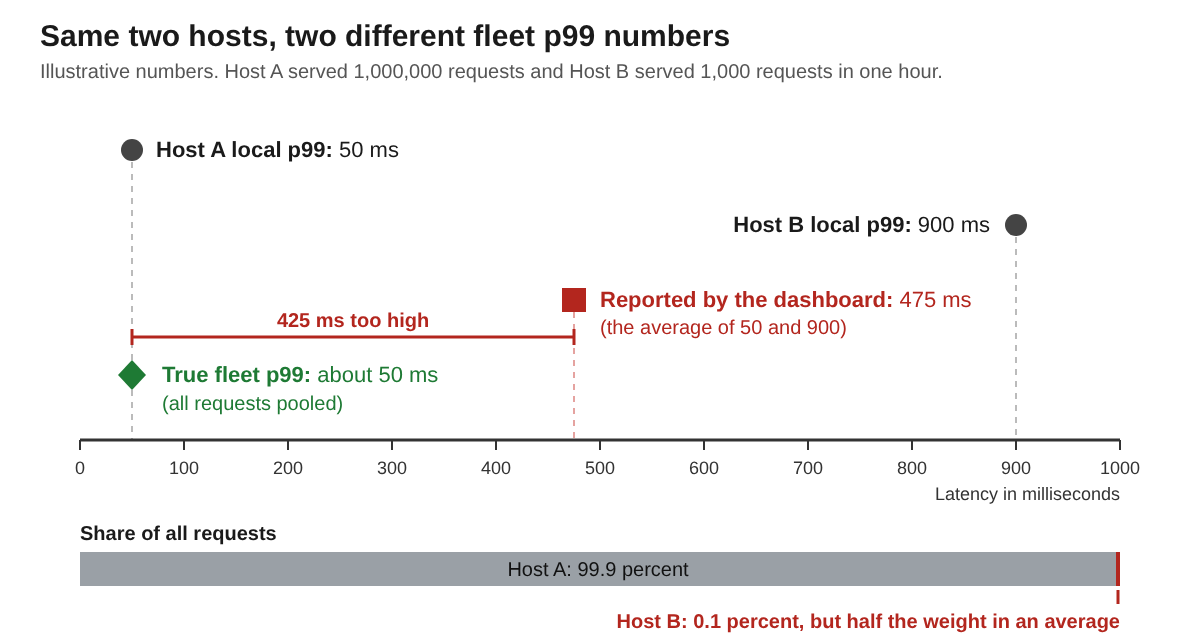
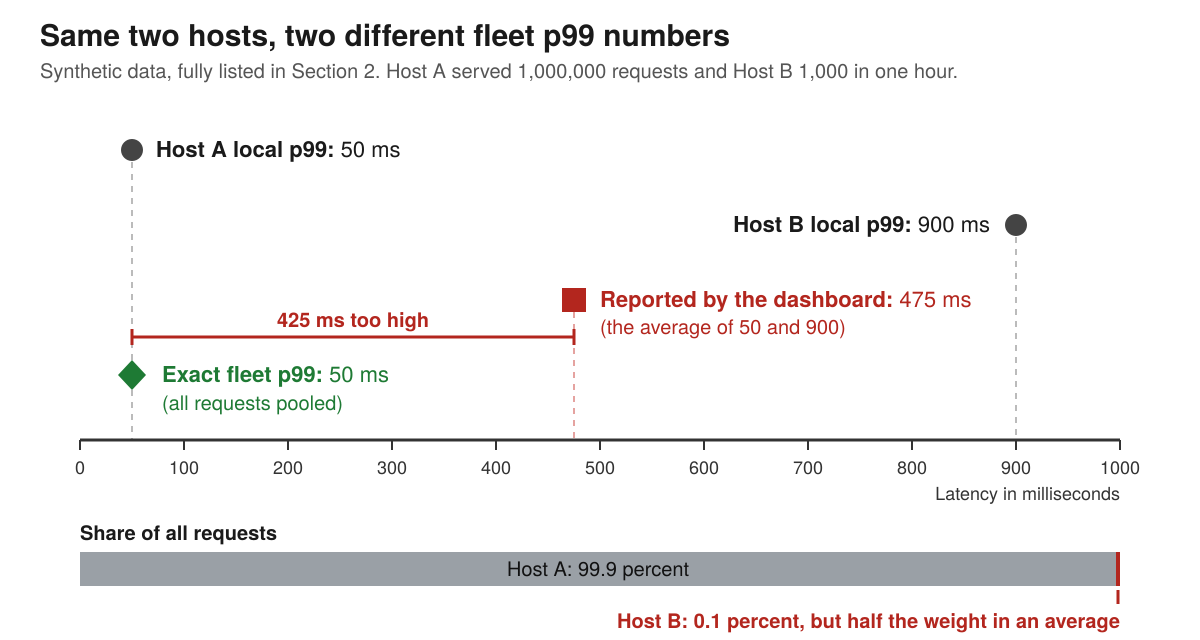
Apply Assignment 1 feedback: reproducible example, documented practice, page decision tolerance
List the full synthetic distribution behind the two host example so the
exact fleet p99 of 50 ms can be recomputed, cite the GOV.UK dashboard fix
and Datadog's statement as documented practice, and fix the page decision
tolerance before testing with threshold cases from 240 to 360 ms (Q5 in
DESIGN.md). Update both figures and the Final Topic papers to match.

diff --git a/DESIGN.md b/DESIGN.md
@@ -34,7 +34,9 @@ This version adds the Section 2 specification and a first Section 3 comparison, 
 | Service owner | To check the service against its promised latency target | Reports that do not match what users experienced |
 | Monitoring platform team | A correct fleet number without storing every request | Exact answers cost bandwidth, storage and query time that grow with traffic |
 
-**Concrete scenario:** In one hour, Host A serves 1,000,000 requests with a local p99 of 50 milliseconds (ms). Host B serves 1,000 requests with a local p99 of 900 ms, perhaps because it is overloaded. The dashboard averages the two local values and shows (50 + 900) / 2 = 475 ms. That crosses a 300 ms alert threshold, so the on call engineer is paged. But Host B served only about 0.1 percent of all requests. If every request is pooled, the true fleet p99 is about 50 ms, so almost no users were slow and the alert was false. The reverse also happens: when one busy host is slow and several small hosts are fast, the average comes out low and hides a slowdown that most users feel. These numbers, including the threshold, are invented to show the effect and are not measurements. Figure 2 below draws the gap.
+**Concrete scenario:** In one hour, Host A serves 1,000,000 requests: 985,000 take 20 milliseconds (ms) and 15,000 take 50 ms, so its local p99 is 50 ms. Host B is overloaded and serves 1,000 requests: 980 take 100 ms and 20 take 900 ms, so its local p99 is 900 ms. The dashboard averages the two local values and shows (50 + 900) / 2 = 475 ms. That crosses a 300 ms alert threshold, so the on call engineer is paged. Pooling all 1,001,000 requests and taking the nearest rank p99, position ⌈0.99 × 1,001,000⌉ = 990,990 in sorted order, gives an exact fleet p99 of 50 ms, because Host B served only about 0.1 percent of the requests. Almost no users were slow, and the page was false. The reverse also happens: when one busy host is slow and several small hosts are fast, the average comes out low and hides a slowdown that most users feel. These numbers and the 300 ms threshold are synthetic, not measurements, but every request is listed, so anyone can recompute the exact answer. Section 2 uses the same data as its ordinary example, and Figure 2 below draws the gap.
+
+**Is the averaging calculation used in practice?** Yes, by real teams, though no source I found reports how large its error was. The GOV.UK platform team at the UK Government Digital Service fixed a Grafana dashboard whose request duration panel averaged Prometheus summary quantiles across pods, noting that it took "the mean across pods of the median request durations", and moved the metric to histograms. Datadog's engineers write that many monitoring vendors compute percentiles per host and that combining those values across hosts gives misleading results. So the practice is documented, while the size of the error and the pages it causes stay a synthetic evaluation until the simulation measures them. Section 2 fixes in advance how much error the page decision can tolerate (Q5).
 
 In one sentence: for an on call engineer reading a fleet dashboard, uneven traffic across hosts makes an averaged fleet p99 wrong, which causes false alarms or missed slowdowns. My project will investigate whether merged quantile sketches, small summaries that hosts can send instead of raw measurements, give a fleet p99 close to the exact answer while using far less memory.
 
@@ -46,7 +48,7 @@ In one sentence: for an on call engineer reading a fleet dashboard, uneven traff
 4. **Display.** The dashboard shows the number and raises an alert if it crosses the target.
 5. **Decide.** The engineer investigates, pages a teammate or waits.
 
-![Flowchart of five steps from left to right: Record, Report, Combine, Display and Decide. Step 3, Combine, is outlined in red and labeled as where the workflow fails. An arrow from step 3 leads to a panel listing four ways to combine host reports for the example in Section 1: averaging local p99 values gives 475 ms, a false alarm; shipping every measurement gives about 50 ms exactly but at a cost that grows with traffic; adding up fixed bucket histograms gives near 50 ms with error that depends on the buckets; merging quantile sketches, drawn with a dashed outline as this project, has its error still to be measured.](assets/workflow.png)
+![Flowchart of five steps from left to right: Record, Report, Combine, Display and Decide. Step 3, Combine, is outlined in red and labeled as where the workflow fails. An arrow from step 3 leads to a panel listing four ways to combine host reports for the example in Section 1: averaging local p99 values gives 475 ms, a false alarm; shipping every measurement gives exactly 50 ms but at a cost that grows with traffic; adding up fixed bucket histograms gives near 50 ms with error that depends on the buckets; merging quantile sketches, drawn with a dashed outline as this project, has its error still to be measured.](assets/workflow.png)
 
 **Figure 1.** The current workflow. Whatever step 3 produces is the only number the engineer sees in steps 4 and 5, so an error there passes straight into the decision. The dashed row is the option this project measures.
 
@@ -61,12 +63,14 @@ This is a distributed systems problem because the hosts are separate machines th
 | Precomputed percentiles from separate summaries generally cannot be combined meaningfully, while histogram bucket counts can be added across hosts | [Prometheus documentation](https://prometheus.io/docs/practices/histograms/) | Documented |
 | DDSketch can be merged and keeps a relative error guarantee, which sketches with only a rank error guarantee do not give on skewed data | [Masson, Rim and Lee, 2019](https://www.vldb.org/pvldb/vol12/p2195-masson.pdf) | Documented |
 | Monitoring data can be too large to analyze in full when operators need answers in real time | [National Science Foundation (NSF) award 2544434](https://www.nsf.gov/awardsearch/show-award?AWD_ID=2544434) | Documented. It shows the research motivation, not that my scenario happens |
-| The two host scenario reports 475 ms against a true value near 50 ms | Arithmetic on invented numbers | Assumed |
+| The two host scenario reports 475 ms against an exact 50 ms | Arithmetic on the synthetic distribution listed above and in Section 2 | Documented by arithmetic for this synthetic data. I do not claim a team saw these exact numbers |
+| A real team's dashboard averaged per pod quantiles, and the team replaced it with histograms | [GOV.UK pull request 1302](https://github.com/alphagov/govuk-helm-charts/pull/1302) | Documented. It shows the practice, not the size of its error |
+| Many monitoring vendors compute percentiles per host, and combining them across hosts misleads | [Lin and Woo, Datadog, 2025](https://www.datadoghq.com/blog/distribution-metrics/) | Documented, by a vendor that sells the alternative |
 | Public production data exists with a response time for each call and the identity of the container that served it | [Alibaba 2022 microservices trace description](https://github.com/alibaba/clusterdata/tree/master/cluster-trace-microservices-v2022) | Documented |
 | Workloads in a large production deployment follow long tailed distributions | [Winchester et al., 2025](https://arxiv.org/abs/2504.13141) | Documented for load across microservices. Whether the containers of one microservice are uneven is still Assumed and is checked in Section 2 |
 | Engineers follow the five steps in Figure 1 | My reading of the sources | Assumed |
 
-![Number line from 0 to 1000 milliseconds. Host A's local p99 is 50 ms and Host B's is 900 ms. The dashboard reports 475 ms, which is 425 ms above the true fleet p99 of about 50 ms. A bar below shows Host A has 99.9 percent of requests and Host B has 0.1 percent.](assets/fleet_p99_gap.png)
+![Number line from 0 to 1000 milliseconds. Host A's local p99 is 50 ms and Host B's is 900 ms. The dashboard reports 475 ms, which is 425 ms above the exact fleet p99 of 50 ms. A bar below shows Host A has 99.9 percent of requests and Host B has 0.1 percent.](assets/fleet_p99_gap.png)
 
 **Figure 2.** The scenario on a number line. Averaging gives each host half the weight, but Host B served only 0.1 percent of the requests, so the reported fleet p99 lands far from the true one.
 
@@ -92,6 +96,7 @@ The system is a simulator. Its user is me, or anyone repeating the study, acting
 - **Memory budget:** the bytes one host may use for its summary, counted as 8 bytes per stored latency value and 16 bytes per DDSketch bin, which holds a bin index and a count. Python object overhead is not counted, and results will say so.
 - **Traffic skew:** how requests are split across H hosts. Under a skew of s, host i (for i from 1 to H) receives a share of requests proportional to 1 / i^s. A skew of 0 is an even split, and a skew of 2 gives the busiest of 64 hosts about 61 percent of requests.
 - **Requirement IDs:** F means a functional requirement, C a correctness rule and Q a quality target, following the course guide. A numbers are assumptions and T numbers are planned tests.
+- **Page decision:** whether the fleet p99 is above 300 ms, the proposed alert threshold from Section 1. A decision flip is a case where an estimate and the exact p99 fall on different sides of 300 ms.
 - **α (alpha):** the relative accuracy setting of a summary that promises a relative error bound. α = 0.01 promises that an answer is within 1 percent of the exact value.
 
 ### Requirements
@@ -111,6 +116,7 @@ The system is a simulator. Its user is me, or anyone repeating the study, acting
 | Q2 | Memory, proposed: in the Q1 setting, all host summaries together use at most 1 percent of the bytes needed to store every latency | Add the summary bytes across hosts and divide by 8 × N. By my arithmetic the target needs 64 × 8 KiB = 512 KiB against 80 MB, or about 0.7 percent | Summaries report counted bytes. T11: total bytes at most 1 percent of 80 MB. Target only |
 | Q3 | Run time, proposed: the full synthetic grid below finishes within 30 minutes on my laptop | Time one full run of the grid from start to final result file | Run script times the whole grid. T12: all 640 settings under 30 minutes. Target only |
 | Q4 | Answer speed, proposed: with 256 hosts at 32 KiB each, the coordinator combines every summary and returns the fleet p99 in under 1 second on my laptop | Time from the arrival of the last summary to the returned answer, 10 times. Every run must finish in under 1 second. Repeat with twice the synthetic traffic to confirm the time does not depend on the number of requests | Coordinator times each merge. T13: 256 hosts at 32 KiB, 10 runs, each under 1 second. Target only |
+| Q5 | Page decision, proposed before testing: the on call engineer is paged when the fleet p99 is above 300 ms. With 64 hosts, skew 1 and 8 KiB per host, on the five threshold cases below (exact fleet p99 of 240, 295, 300, 305 and 360 ms), a method meets Q5 when its estimate gives the same page or no page decision as the exact p99 in every case outside the band 297 to 303 ms, in each of 5 seeds. Inside the band a flip is counted and reported, not failed | For every method, case and seed, record the estimate, its relative error, its summary bytes and whether its decision matches the exact one. Count the flips | Scorer compares each estimate and the exact p99 with the 300 ms threshold. T14: five threshold cases, 5 seeds, every method. Target only |
 
 ### Why each requirement matters
 
@@ -142,6 +148,8 @@ F rows say what the simulator must do, C rows say what must never be accepted as
 
 **Q4, a fleet answer in under 1 second.** A correct number that arrives late is an old number. Dashboards usually refresh every few seconds to every minute, so an answer that takes longer to build than the refresh is already out of date when the engineer reads it during an outage. The exact answer has to sort every request and slows down as traffic grows. Combining summaries depends only on the number of hosts and their budgets, which is why the test repeats the timing with twice the traffic and expects about the same time.
 
+**Q5, the error must not change the page decision.** Relative error is a means. What the on call engineer acts on is whether the dashboard crosses 300 ms, so the tolerance is set by that decision and fixed before any run, so the results cannot choose it afterwards. A method within 1 percent can flip the decision only when the exact p99 lies between about 297 and 303 ms, since 300 / 1.01 ≈ 297 and 300 / 0.99 ≈ 303. At an exact 295 ms, a 1 percent method shows at most 297.95 ms and never pages, while averaging in Section 1 pages at an exact 50 ms. At an exact 300 ms, even a tiny error decides the page, so flips there are counted and not failed. Each result reports the decision next to the relative error and the summary bytes, which ties accuracy to the saving in Q2: in the ordinary example, two 8 KiB summaries send 16 KiB against about 8 MB for every latency (1,001,000 × 8 bytes), about 0.2 percent.
+
 ### Experiment settings
 
 These settings answer how many hosts I simulate and how much memory I test.
@@ -155,8 +163,9 @@ These settings answer how many hosts I simulate and how much memory I test.
 | Real data | One 3 minute file of the Alibaba 2022 call graph table, using calls to one busy microservice, with containers as hosts. If its containers carry nearly equal traffic, the same real latencies are also split with the synthetic skews | Real latency values, plus a natural host split if the data has one |
 | Quantiles | 0.5, 0.9, 0.99, 0.999 | p99 is the focus. The others show where each method breaks |
 | Seeds | 1 to 5 | Sampling and synthetic data are random, so each result is repeated |
+| Threshold cases (Q5) | 10,000,000 lognormal latencies, each multiplied by one constant so the exact fleet p99 is 240, 295, 300, 305 or 360 ms, with 64 hosts, skew 1 and 8 KiB per host. Multiplying every latency by the same number keeps their order, so the exact p99 lands on the target | Tests below, near and above the 300 ms threshold whether a method's error changes the page decision |
 
-The synthetic grid is 4 host counts × 4 budgets × 4 skew cases × 2 distributions × 5 seeds = 640 runs, each scored for every method and quantile.
+The synthetic grid is 4 host counts × 4 budgets × 4 skew cases × 2 distributions × 5 seeds = 640 runs, each scored for every method and quantile. The threshold cases add 5 targets × 5 seeds = 25 runs outside that grid.
 
 ### Inputs and outputs
 
@@ -228,6 +237,7 @@ Each cell says whether the approach can meet the requirement and what the claim 
 | Q1: at most 1 percent p99 error at 8 KiB, 64 hosts, skew 1 | Not expected, error is unbounded under skew (ordinary example) | Unlikely, since 1,024 values give about 10 tail values per host (judgment) | Depends on bucket edges (judgment) | Expected, since 512 bins exceed the 461 needed for α = 0.01 (arithmetic from the paper's bound) |
 | Q2: total summaries at most 1 percent of exact storage | Yes, far below (arithmetic) | Yes, at the same budget (arithmetic) | Yes, at the same budget (arithmetic) | Yes, at the same budget (arithmetic) |
 | Q4: fleet answer in under 1 second at 256 hosts and 32 KiB each | Yes, averaging 256 numbers (arithmetic) | Likely, since sorting up to 1,048,576 sampled values is a small job (judgment, to be measured) | Likely, since it adds bucket counts (judgment, to be measured) | Likely, since it adds up to 524,288 bin counts (judgment, to be measured) |
+| Q5: same page decision as the exact p99 outside 297 to 303 ms | Fails: it pages at 475 ms when the exact value is 50 ms (ordinary example) | Unlikely at 295 and 305 ms, since about 10 tail values per host probably give more noise than the 1.7 percent margin (judgment, to be measured) | Depends on whether a bucket edge falls near 300 ms (judgment) | Expected, since an error within 1 percent cannot flip the decision outside the band (arithmetic from Q1 and C4) |
 | Effort in six weeks | Smallest | Small | Small, but the bucket edges are a design choice of their own | Moderate, since the package exists but the bin limit needs care |
 
 A second, smaller choice is how to simulate hosts. Hosts can be objects inside one program, or separate operating system processes that send serialized summaries to a coordinator. Separate processes would measure the real size of a sent summary and make host isolation (F2) automatic, at the cost of setup and slower runs at 256 hosts. Objects in one program are simpler and meet every requirement above if summary sizes are counted as defined in Section 2.
@@ -281,6 +291,7 @@ To be completed in Assignment 3: whether simulated hosts are objects in one prog
 | November 6, 2026 | First version from the course template: Section 1, progress note and one open question | My earlier [proposal](ZihadPatwaryProposal.md) was too large for six weeks, so I narrowed it to one comparison. Evidence is the scenario in Figures 1 and 2 and the sources below |
 | November 14, 2026 | Assignment 2: wrote the Section 2 specification and a first Section 3 comparison. Revised Section 1 to fix the host counts (4 to 256) and memory budgets (512 bytes to 32 KiB) and to name the Alibaba 2022 microservices trace as real data | Tanvir Islam's review asked how many servers I simulate, how much memory I test and for real world data. The Alibaba trace description confirmed a per call response time and serving container. Writing C4 showed that DDSketch at α = 0.01 needs about 461 bins, more than the two smallest budgets allow |
 | November 16, 2026 | Added Q4, a proposed target for answer speed, and a matching row in the Section 3 comparison. Rewrote every Design and test reference cell to name the responsible component and its planned test in one or two short sentences. Added the subsection "Why each requirement matters", with the reason and an example for every requirement, and moved the reasons for the 1 percent and 1 second targets into it. Corrected the averaging cell for C1 in Section 3, since averaging in groups changes the result | Added after the Assignment 2 presentation so the specification also covers how fast a fleet answer must be ready, not only how accurate and how small it is |
+| November 17, 2026 | Applied the Assignment 1 feedback. Section 1 now lists the full synthetic distribution behind the scenario, so the exact fleet p99 of 50 ms can be recomputed, and cites the GOV.UK dashboard fix and Datadog's statement as documented practice. Added Q5, a page decision tolerance fixed before testing, with five threshold cases from 240 to 360 ms, a matching row in Section 3, and the label changes in Figures 1 and 2 | The feedback on the November 6 version asked for a reproducible worked example, a documented case of the averaging practice or a narrower claim, and an acceptable error tied to the on call decision |
 
 | Open question | Why it matters | Next action |
 |---|---|---|
@@ -300,6 +311,8 @@ To be completed in Assignment 3: whether simulated hosts are objects in one prog
 | Shutian Luo, Huanle Xu, Kejiang Ye, Guoyao Xu, Liping Zhang, Guodong Yang and Chengzhong Xu, The Power of Prediction: Microservice Auto Scaling via Workload Learning, ACM Symposium on Cloud Computing, 2022 | The paper the 2022 trace asks users to cite | Citation taken from the trace description. Paper not read |
 | Darby Huye, Lan Liu and Raja R. Sambasivan, [Systemizing and Mitigating Topological Inconsistencies in Alibaba's Microservice Call-graph Datasets](https://raja.cs.tufts.edu/assets/pdf/huye2024_paper.pdf), ICPE 2024 | The Alibaba call graph data has data loss and other inconsistencies, at a lower rate in 2022 than in 2021. A reason to filter rows carefully and report what was dropped (F5) | Abstract read |
 | Giles Winchester, George Parisis, Guoyao Xu and Luc Berthouze, [Complexity at Scale: A Quantitative Analysis of an Alibaba Microservice Deployment](https://arxiv.org/abs/2504.13141), arXiv 2504.13141, 2025 | Workloads and dependencies in Alibaba's deployment follow long tailed distributions. Partial support for the uneven traffic assumption in Section 1 | Abstract read |
+| GOV.UK, [Update request rates, errors, durations dashboard, pull request 1302](https://github.com/alphagov/govuk-helm-charts/pull/1302), alphagov/govuk-helm-charts on GitHub, accessed November 17, 2026 | A production Grafana dashboard averaged Prometheus summary quantiles across pods and was changed to use histograms. Supports the claim that the averaging calculation is used in practice | Description read through a search index. The page itself did not load for me, so its date and merge status are not checked |
+| Kathy Lin and Colten Woo, [Unlock advanced query functionality with distribution metrics](https://www.datadoghq.com/blog/distribution-metrics/), Datadog blog, January 10, 2025 | Many vendors compute percentiles per host, and combining those values across hosts gives misleading results | Page read and wording checked |
 | Pankaj K. Agarwal, Graham Cormode, Zengfeng Huang, Jeff M. Phillips, Zhewei Wei and Ke Yi, [Mergeable Summaries](https://dimacs.rutgers.edu/~graham/pubs/html/AgarwalCormodeHuangPhillipsWeiYi13.html), ACM Transactions on Database Systems 38(4), 2013 | The definition of a mergeable summary used to judge every approach in Section 3, and the basis of C1 and C2 | Abstract read and wording checked |
 
 ### Supporting media and evidence

diff --git a/Final_Topic_Problem_Understanding_Paper.md b/Final_Topic_Problem_Understanding_Paper.md
@@ -13,7 +13,7 @@ Teams that run large online services judge speed by tail latency, not by the ave
 
 The problem is that the two common ways to assemble it each fail. The cheap way, averaging each host's own p99, gives a wrong number because percentiles do not add. The exact way, sending every measurement to one place and sorting it, is correct but costs bandwidth, storage and query time that grow with traffic. The NSF award this project is drawn from states the general version of this: data about traffic, resource use and failures can be too large to analyze in full when operators need answers in real time (National Science Foundation, n.d.).
 
-**Example.** In one hour, Host A serves 1,000,000 requests with a local p99 of 50 milliseconds (ms). Host B serves 1,000 requests with a local p99 of 900 ms because it is overloaded. A dashboard that averages the two shows (50 + 900) / 2 = 475 ms. That crosses a 300 ms alert threshold and pages the on call engineer. But Host B served only about 0.1 percent of the requests. Pooled together, the true fleet p99 is about 50 ms, so the alert was false. The reverse also happens: when one busy host is slow and several quiet hosts are fast, the average comes out low and hides a slowdown most users feel. These numbers are invented to show the effect and are not measurements.
+**Example.** In one hour, Host A serves 1,000,000 requests: 985,000 take 20 milliseconds (ms) and 15,000 take 50 ms, so its local p99 is 50 ms. Host B is overloaded and serves 1,000 requests: 980 take 100 ms and 20 take 900 ms, so its local p99 is 900 ms. A dashboard that averages the two shows (50 + 900) / 2 = 475 ms. That crosses a 300 ms alert threshold and pages the on call engineer. Pooling all 1,001,000 requests and taking the nearest rank p99, position ⌈0.99 × 1,001,000⌉ = 990,990 in sorted order, gives an exact fleet p99 of 50 ms, so the page was false. The reverse also happens: when one busy host is slow and several quiet hosts are fast, the average comes out low and hides a slowdown most users feel. These numbers and the threshold are synthetic, not measurements, but every request is listed, so anyone can recompute them.
 
 **Conditions.** The error appears when traffic is uneven across hosts, latencies have long tails, and each host can only afford a small report. With even traffic or small data, averaging or exact pooling both work well enough.
 
@@ -37,6 +37,8 @@ This is a distributed systems problem because hosts share information only by se
 
 **Technical documentation (Documented).** The Prometheus documentation states that precomputed percentiles from separate summaries generally cannot be combined meaningfully, while histogram bucket counts can be added across instances (Prometheus Authors, n.d.). That is the averaging failure, stated by a widely used monitoring tool.
 
+**Practice (Documented).** Real teams use the averaging calculation. The GOV.UK platform team fixed a Grafana dashboard whose request duration panel averaged Prometheus summary quantiles across pods, taking the mean of each pod's median, and moved the metric to histograms (GOV.UK, n.d.). Datadog's engineers write that many vendors compute percentiles per host and that combining those values across hosts misleads (Lin & Woo, 2025). Neither source reports how large the error was or which alerts it changed, so the error sizes in this paper are a synthetic evaluation until I measure them.
+
 **Research (Documented).** Agarwal et al. (2013) define a mergeable summary: two summaries combine into a summary of the combined data with the same error and size guarantees. Masson, Rim and Lee (2019) show that DDSketch is fully mergeable with a relative error guarantee and that sketches with only a rank error guarantee can give large relative errors on skewed data. Winchester et al. (2025) report that workloads in an Alibaba production deployment follow long tailed distributions.
 
 **Real data (Documented).** Alibaba's public 2022 microservices trace records the response time of each call and the container that served it, which lets me treat containers as hosts (Alibaba Group, n.d.).
@@ -49,7 +51,7 @@ This is a distributed systems problem because hosts share information only by se
 - Hosts simulated inside one program are a fair stand in for real hosts, because the question is what a summary can represent, not network timing.
 - Lognormal and Pareto latencies are a fair stand in for real latencies.
 
-**Missing evidence.** Telemetry from a real hyperscale fleet, the accuracy targets operators actually use, and real transfer costs, which I will only count in bytes.
+**Missing evidence.** Telemetry from a real hyperscale fleet, a case where an averaged number changed a page, the accuracy targets operators actually use, and real transfer costs, which I will only count in bytes.
 
 ### What solutions already exist?
 
@@ -67,11 +69,13 @@ The libraries exist, so the gap is not a missing algorithm. The open part is how
 
 ### What is the most important thing you still do not know?
 
-The main unknown is whether a merged fleet p99 built from small per host summaries stays within 1 percent of the exact value as the number of hosts grows and traffic becomes more uneven, at budgets from 512 bytes to 32 KiB per host.
+The main unknown is whether a merged fleet p99 built from small per host summaries stays accurate enough not to change the page decision as the number of hosts grows and traffic becomes more uneven, at budgets from 512 bytes to 32 KiB per host.
 
-**Experiment.** Split one stream of latencies across 4, 16, 64 and 256 simulated hosts with traffic skews from even to heavily uneven, plus a slow small host case like the example. Answer the fleet p99 three ways: averaging local p99 values, merging uniform samples, and merging one DDSketch per host. Score every answer against the exact p99 computed from all the data, over 5 random seeds.
+**Tolerance, fixed before testing.** The engineer is paged when the fleet p99 is above 300 ms. A method is acceptable if its p99 is within 1 percent of the exact value and all its summaries use at most 1 percent of the bytes needed to store every latency. Within 1 percent, an estimate can flip the page decision only when the exact p99 lies between about 297 and 303 ms (300 / 1.01 to 300 / 0.99). Outside that band any flip is a failure; inside it, flips are counted and reported.
 
-**Measurements.** Relative error at p50, p90, p99 and p99.9; summary bytes per host; total bytes against exact storage; time to merge.
+**Experiment.** Split one stream of latencies across 4, 16, 64 and 256 simulated hosts with traffic skews from even to heavily uneven, plus a slow small host case like the example and five threshold cases, where one synthetic stream is scaled so the exact fleet p99 is 240, 295, 300, 305 or 360 ms. Answer the fleet p99 three ways: averaging local p99 values, merging uniform samples, and merging one DDSketch per host. Score every answer against the exact p99 computed from all the data, over 5 random seeds.
+
+**Measurements.** Relative error at p50, p90, p99 and p99.9; whether each estimate gives the same page decision as the exact p99; summary bytes per host; total bytes against exact storage; time to merge.
 
 **How the result would influence the design.**
 
@@ -81,7 +85,7 @@ The main unknown is whether a merged fleet p99 built from small per host summari
 
 ### Your Individual Scope
 
-In six weeks I will build a Python simulation that partitions request latencies across simulated hosts, builds one summary per host within a memory budget, merges the summaries and scores the fleet answer against the exact one. I compare averaging, uniform sampling and DDSketch on synthetic heavy tailed data and on one slice of the Alibaba 2022 trace. In Semester II I add KLL and t digest, a minimal mergeable sketch I write myself, a simple query layer and a decision guide for which summary fits which data shape.
+In six weeks I will build a Python simulation that partitions request latencies across simulated hosts, builds one summary per host within a memory budget, merges the summaries and scores the fleet answer against the exact one. I compare averaging, uniform sampling and DDSketch on synthetic heavy tailed data and on one slice of the Alibaba 2022 trace. The result is meant to help an on call engineer decide whether fleet latency is above 300 ms: for each method, it shows whether that decision matches the exact one and what the summaries cost. In Semester II I add KLL and t digest, a minimal mergeable sketch I write myself, a simple query layer and a decision guide for which summary fits which data shape.
 
 I exclude the NSF project's third and fourth thrusts (learned compression and the engine that turns goals into settings), real network deployment, security monitoring and any claim of true hyperscale. Scale is simulated and the results will say so. One student can do this because it needs one language, an open source DDSketch package, public or generated data and one laptop, and every result has an exact answer to check against.
 
@@ -99,7 +103,11 @@ Dean, J., & Barroso, L. A. (2013). The tail at scale. *Communications of the ACM
 
 Dunning, T., & Ertl, O. (2019). *Computing extremely accurate quantiles using t-digests* (arXiv:1902.04023). arXiv. [https://arxiv.org/abs/1902.04023](https://arxiv.org/abs/1902.04023)
 
+GOV.UK. (n.d.). *Update request rates, errors, durations dashboard* (Pull Request No. 1302) [alphagov/govuk-helm-charts]. GitHub. Retrieved November 17, 2026, from [https://github.com/alphagov/govuk-helm-charts/pull/1302](https://github.com/alphagov/govuk-helm-charts/pull/1302)
+
 Karnin, Z., Lang, K., & Liberty, E. (2016). Optimal quantile approximation in streams. In *Proceedings of the 57th IEEE Symposium on Foundations of Computer Science (FOCS)* (pages 71 to 78). IEEE. [https://arxiv.org/abs/1603.05346](https://arxiv.org/abs/1603.05346)
+
+Lin, K., & Woo, C. (2025, January 10). *Unlock advanced query functionality with distribution metrics*. Datadog. [https://www.datadoghq.com/blog/distribution-metrics/](https://www.datadoghq.com/blog/distribution-metrics/)
 
 Masson, C., Rim, J. E., & Lee, H. K. (2019). DDSketch: A fast and fully-mergeable quantile sketch with relative-error guarantees. *Proceedings of the VLDB Endowment, 12*(12), pages 2195 to 2205. [https://www.vldb.org/pvldb/vol12/p2195-masson.pdf](https://www.vldb.org/pvldb/vol12/p2195-masson.pdf)
 

diff --git a/Final_Topic_Candidate_Problem_Background.md b/Final_Topic_Candidate_Problem_Background.md
@@ -13,7 +13,7 @@ Online services are judged by how slow their slowest requests are, not by the av
 
 There are two easy ways to build it, and both break. The first is to average each host's own p99. It is cheap, but percentiles do not add, so the result is wrong whenever hosts carry different amounts of traffic. Prometheus, a widely used monitoring tool, warns that precomputed percentiles from separate summaries generally cannot be combined, while histogram bucket counts can (Prometheus Authors). The second is to ship every single measurement to one place and sort it. That is exact, but bandwidth, storage and query time grow with traffic. NSF award 2544434 describes the same tension: telemetry about traffic, resource use and failures can be too large to analyze in full when operators need answers quickly (National Science Foundation).
 
-A small example shows the size of the error. Host A serves 1,000,000 requests in an hour with a local p99 of 50 ms. Host B is overloaded and serves 1,000 requests with a local p99 of 900 ms. Averaging gives 475 ms, which crosses a 300 ms alert and pages an engineer. Pooled, the true fleet p99 is about 50 ms, since Host B served only 0.1 percent of the traffic. The alert was false. If one busy host were slow and many quiet hosts fast, the average would instead hide a real slowdown. These numbers are invented to show the effect.
+A small example shows the size of the error. In an hour, Host A serves 1,000,000 requests: 985,000 at 20 ms and 15,000 at 50 ms, so its local p99 is 50 ms. Host B is overloaded and serves 1,000 requests: 980 at 100 ms and 20 at 900 ms, so its local p99 is 900 ms. Averaging gives 475 ms, which crosses a 300 ms alert and pages an engineer. Pooling all 1,001,000 requests and taking the nearest rank p99, position 990,990 in sorted order, gives an exact fleet p99 of 50 ms, since Host B served only 0.1 percent of the traffic. The page was false. If one busy host were slow and many quiet hosts fast, the average would instead hide a real slowdown. These numbers are synthetic, but every request is listed, so the exact answer can be recomputed.
 
 A middle path exists: each host sends a small summary, called a sketch, that can be merged with the others into a summary of all the data. Whether those merged summaries stay accurate under uneven traffic and tight memory is what this project investigates.
 
@@ -24,6 +24,8 @@ The NSF award, CAREER: Approximation First Telemetry for Hyperscale Networked Sy
 Agarwal et al. define what a mergeable summary must do: two summaries combine into a summary of the combined data while keeping the same error and size guarantees. Masson, Rim and Lee show that DDSketch meets this definition with a relative error guarantee, and that sketches with only a rank error guarantee can give large relative errors on skewed data, which is exactly the shape of latency data.
 
 For real data, Alibaba's public 2022 microservices trace records the response time of each call and the container that served it, so each container can play the role of a host (Alibaba Group). Winchester et al. report that workloads in an Alibaba production deployment follow long tailed distributions, which supports the uneven traffic condition, though I still have to check it for the containers I use.
+
+Real teams do use the averaging calculation. The GOV.UK platform team fixed a Grafana dashboard whose request duration panel averaged Prometheus summary quantiles across pods, and moved the metric to histograms (GOV.UK). Datadog's engineers write that many vendors compute percentiles per host and that combining those values across hosts misleads (Lin and Woo). Neither source says how large the error was or which alerts it changed, so the error sizes in this project remain a synthetic evaluation until I measure them.
 
 I have not observed the problem myself yet. My first measurement will be the gap between the averaged p99 and the exact p99 on one slice of the Alibaba trace. My working belief is that the error is driven more by how uneven traffic is than by how many hosts there are, but I have not tested that.
 
@@ -55,6 +57,7 @@ Adaptive design, reusing an existing solution for a different need (Driscoll et 
 | Does a merged DDSketch keep the fleet p99 within 1 percent as hosts grow from 4 to 256 and traffic becomes more uneven? | Simulate hosts with controlled skew, merge their sketches and compare with the exact p99 over 5 seeds |
 | At 512 bytes and 2 KiB per host, is it better to loosen DDSketch's accuracy or merge its lowest buckets? | A small trial on synthetic data before the main runs, checking whether p99 stays above the merged range |
 | Is traffic across Alibaba containers uneven enough, with at least 1,000 calls per container, for the averaging error to show? | Download one 3 minute file in week 1 and count calls per container for the busiest microservices |
+| How much error can the page decision tolerate, and what does the saving cost? | Fixed before testing: the engineer is paged above 300 ms, and a method is acceptable if its p99 is within 1 percent and its summaries use at most 1 percent of the bytes for every latency. Within 1 percent, the decision can flip only when the exact p99 is between about 297 and 303 ms, so I test streams scaled to an exact p99 of 240, 295, 300, 305 and 360 ms and count flips |
 | How much better is a sketch than a simple sample at the same memory? | Run uniform sampling at the same budgets and compare error at p99 and p99.9 |
 
 ## 6. One Early Risk
@@ -77,7 +80,11 @@ Driscoll, Mark, et al. *Engineering Capstone Design: Project Planning, Organizin
 
 Dunning, Ted, and Otmar Ertl. "Computing Extremely Accurate Quantiles Using t-Digests." *arXiv*, 2019, arxiv.org/abs/1902.04023.
 
+GOV.UK. "Update Request Rates, Errors, Durations Dashboard." Pull request 1302, *alphagov/govuk-helm-charts*, GitHub, github.com/alphagov/govuk-helm-charts/pull/1302. Accessed 17 Nov. 2026.
+
 Karnin, Zohar, Kevin Lang, and Edo Liberty. "Optimal Quantile Approximation in Streams." *Proceedings of the 57th IEEE Symposium on Foundations of Computer Science*, 2016, pages 71 to 78, arxiv.org/abs/1603.05346.
+
+Lin, Kathy, and Colten Woo. "Unlock Advanced Query Functionality with Distribution Metrics." *Datadog*, 10 Jan. 2025, www.datadoghq.com/blog/distribution-metrics/.
 
 Masson, Charles, Jee E. Rim, and Homin K. Lee. "DDSketch: A Fast and Fully-Mergeable Quantile Sketch with Relative-Error Guarantees." *Proceedings of the VLDB Endowment*, vol. 12, no. 12, 2019, www.vldb.org/pvldb/vol12/p2195-masson.pdf.
 
